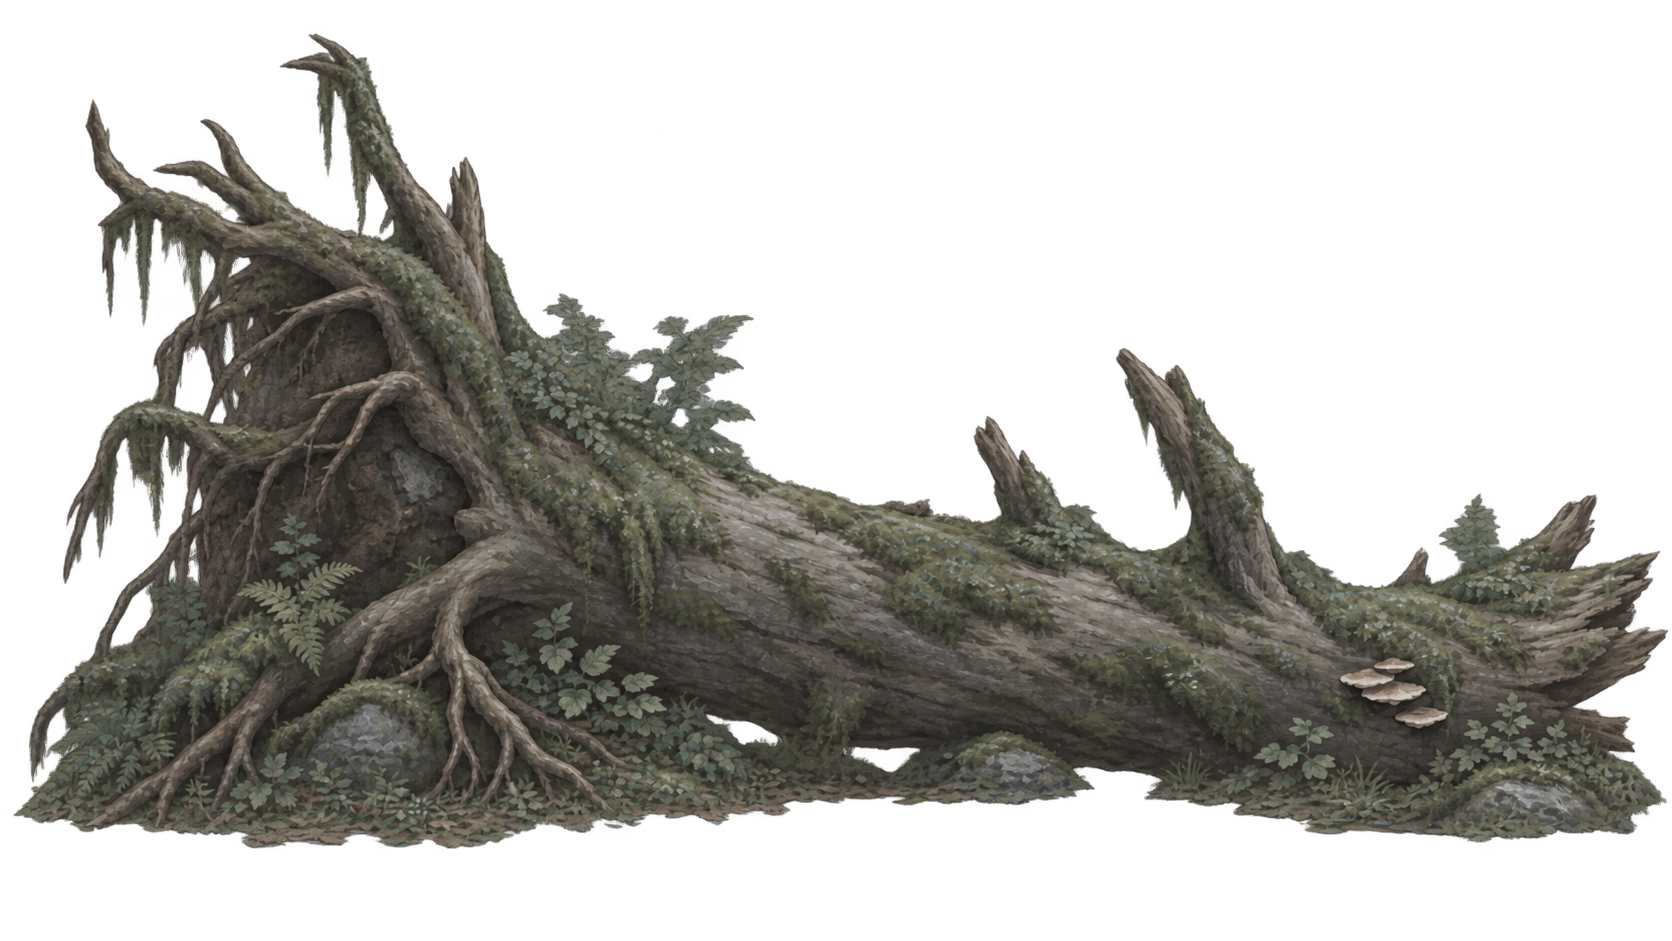
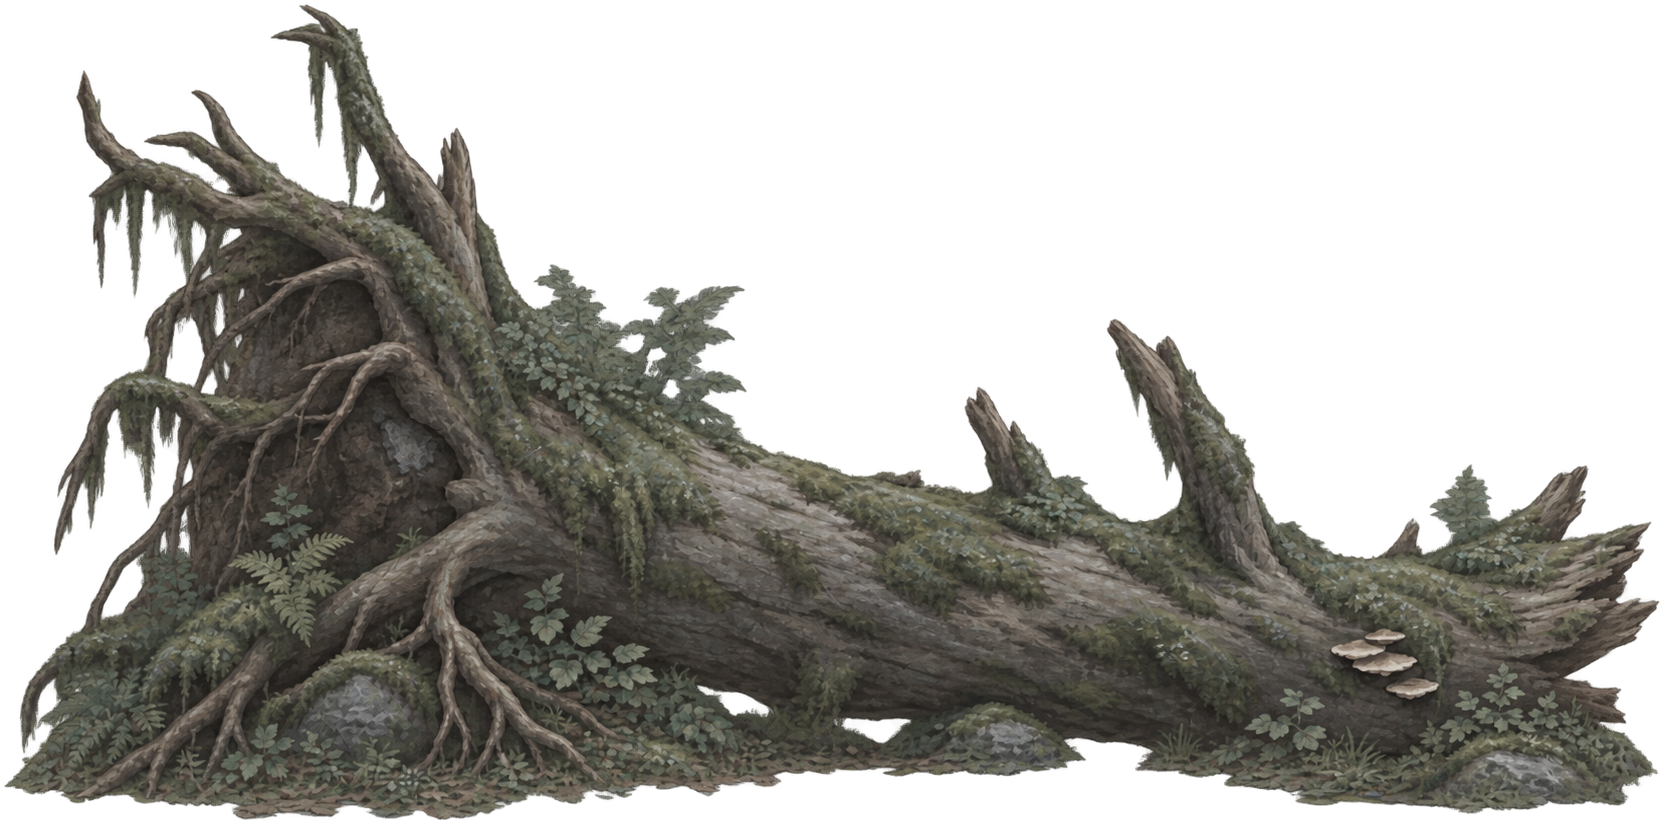
Add files via upload

diff --git a/sidescroll.js b/sidescroll.js
@@ -1,7 +1,7 @@
 (() => {
   'use strict';
 
-  // SideScroll v0.2.55: compact right-anchored drive control and lighter translucent gameplay control surfaces.
+  // SideScroll v0.2.56: crop the fallen-tree texture to its real painted bounds so it regains the authored size and sits on the ground; preserve authored puzzle aspect ratios.
 
   const queryParams = new URLSearchParams(window.location.search);
   const PLAYER_MODE = queryParams.get('mode') === 'player';
@@ -542,7 +542,7 @@
   const textures = {};
   const assetAspect = {};
 
-  function createImageTexture(url, label = 'image', fallbackUrl = null) {
+  function createImageTexture(url, label = 'image', fallbackUrl = null, aspectOverride = null) {
     const tex = gl.createTexture();
     gl.bindTexture(gl.TEXTURE_2D, tex);
     gl.texImage2D(
@@ -558,7 +558,7 @@
     const loadIntoTexture = src => {
       const image = new Image();
       image.onload = () => {
-        assetAspect[label] = image.naturalWidth / image.naturalHeight;
+        assetAspect[label] = Number.isFinite(aspectOverride) ? aspectOverride : (image.naturalWidth / image.naturalHeight);
         gl.bindTexture(gl.TEXTURE_2D, tex);
         gl.pixelStorei(gl.UNPACK_PREMULTIPLY_ALPHA_WEBGL, false);
         gl.pixelStorei(gl.UNPACK_FLIP_Y_WEBGL, true);
@@ -723,7 +723,7 @@
     return tex;
   }
 
-  textures.pathDirt = createRepeatingImageTexture('terrain-dirt.png?v=0.2.55', 'terrain dirt texture', {
+  textures.pathDirt = createRepeatingImageTexture('terrain-dirt.png?v=0.2.56', 'terrain dirt texture', {
     placeholderDraw: drawFallbackTerrainTexture,
     potSize: 1024
   });
@@ -731,8 +731,8 @@
   // v1.8.81: forest dressing now comes from one authored atlas.
   // This removes the old per-file fallback path which could substitute the
   // full woodland source sheet when an individual PNG failed to load.
-  textures.dressingAtlas = createImageTexture('sidescroll-dressing-atlas.png?v=0.2.55', 'SideScroll dressing atlas');
-  textures.treeAtlas = createImageTexture('sidescroll-tree-atlas.png?v=0.2.55', 'SideScroll tree atlas');
+  textures.dressingAtlas = createImageTexture('sidescroll-dressing-atlas.png?v=0.2.56', 'SideScroll dressing atlas');
+  textures.treeAtlas = createImageTexture('sidescroll-tree-atlas.png?v=0.2.56', 'SideScroll tree atlas');
   const assetUv = {
     tree06: { scale: [0.143066406, 0.497070312], offset: [0.699707031, 0.495117188] },
     tree02: { scale: [0.186523438, 0.483398438], offset: [0.131347656, 0.508789062] },
@@ -930,7 +930,7 @@
       for (const asset of pack.assets || []) {
         if (!textures[asset.name]) {
           if (asset.url) {
-            textures[asset.name] = createImageTexture(asset.url, asset.name);
+            textures[asset.name] = createImageTexture(asset.url, asset.name, null, asset.aspect || null);
             if (asset.aspect) assetAspect[asset.name] = asset.aspect;
           } else if (pack.image && asset.slice) {
             textures[asset.name] = createImageSliceTexture(pack.image, asset.slice, asset.name);
@@ -3727,7 +3727,7 @@
     return {
       format:'SideScrollPuzzle',
       formatVersion:1,
-      appVersion:'0.2.55',
+      appVersion:'0.2.56',
       exportedAt:new Date().toISOString(),
       marker:{ id:marker.id, group:marker.group, x:marker.x, local:markerIsUserCreated(marker) },
       definition:deepCopy(def),
@@ -3746,7 +3746,7 @@
       const def = groupDefinition(groupId);
       if (!groupId || !def) return;
       payload = {
-        format:'SideScrollPuzzleTemplate', formatVersion:1, appVersion:'0.2.55', exportedAt:new Date().toISOString(),
+        format:'SideScrollPuzzleTemplate', formatVersion:1, appVersion:'0.2.56', exportedAt:new Date().toISOString(),
         group:groupId, definition:deepCopy(def), savedStart:deepCopy(templateStartForGroup(groupId)),
         source:groupIsUserCreated(groupId) ? 'local-library' : 'library'
       };
@@ -3836,7 +3836,7 @@
     return {
       format:'SideScrollGameDesign',
       formatVersion:1,
-      appVersion:'0.2.55',
+      appVersion:'0.2.56',
       exportedAt:new Date().toISOString(),
       purpose:'Complete authoring handoff: scene placement, puzzle placement/setup, reusable asset settings, collectables and camera tuning.',
       world:{

diff --git a/play.html b/play.html
@@ -9,7 +9,7 @@
   <meta name="theme-color" content="#081015">
   <link rel="manifest" href="manifest.json">
   <link rel="apple-touch-icon" href="icon-192.png">
-  <link rel="stylesheet" href="style.css?v=0.2.55">
+  <link rel="stylesheet" href="style.css?v=0.2.56">
   <title>SideScroll</title>
 </head>
 <body class="modular-game ss-standalone-game" data-game-id="game-16">
@@ -279,11 +279,11 @@
     </section>
   </main>
 
-  <script src="site-config.js?v=0.2.55"></script>
-  <script src="core.js?v=0.2.55"></script>
-  <script src="walk-rig.js?v=0.2.55"></script>
-  <script src="puzzle-groups.js?v=0.2.55"></script>
-  <script src="baked-game-design.js?v=0.2.55"></script>
-  <script src="sidescroll.js?v=0.2.55"></script>
+  <script src="site-config.js?v=0.2.56"></script>
+  <script src="core.js?v=0.2.56"></script>
+  <script src="walk-rig.js?v=0.2.56"></script>
+  <script src="puzzle-groups.js?v=0.2.56"></script>
+  <script src="baked-game-design.js?v=0.2.56"></script>
+  <script src="sidescroll.js?v=0.2.56"></script>
 </body>
 </html>

diff --git a/walk-lab.html b/walk-lab.html
@@ -9,7 +9,7 @@
   <meta name="theme-color" content="#e7dbd2">
   <link rel="manifest" href="manifest.json">
   <link rel="apple-touch-icon" href="icon-192.png">
-  <link rel="stylesheet" href="style.css?v=0.2.55">
+  <link rel="stylesheet" href="style.css?v=0.2.56">
   <title>Walk Lab · SideScroll</title>
 </head>
 <body class="modular-game ss-standalone-game" data-game-id="game-17">
@@ -78,9 +78,9 @@
     </section>
   </main>
 
-  <script src="site-config.js?v=0.2.55"></script>
-  <script src="core.js?v=0.2.55"></script>
-  <script src="walk-rig.js?v=0.2.55"></script>
-  <script src="walk-lab.js?v=0.2.55"></script>
+  <script src="site-config.js?v=0.2.56"></script>
+  <script src="core.js?v=0.2.56"></script>
+  <script src="walk-rig.js?v=0.2.56"></script>
+  <script src="walk-lab.js?v=0.2.56"></script>
 </body>
 </html>

diff --git a/puzzle-groups.js b/puzzle-groups.js
@@ -7,7 +7,7 @@ window.SideScrollPuzzleConfig = {
         { name: "puzzle-log-b", url: "puzzle-log-b.png?v=0.2.8", aspect: 1.5423 },
         { name: "puzzle-log-c", url: "puzzle-log-c.png?v=0.2.8", aspect: 2.1916 },
         { name: "puzzle-log-d", url: "puzzle-log-d.png?v=0.2.8", aspect: 2.3850 },
-        { name: "fallen-tree", url: "fallen-tree.png?v=0.2.55", aspect: 2.3644 },
+        { name: "fallen-tree", url: "fallen-tree.png?v=0.2.56", aspect: 2.3644 },
         { name: "tree-stump", url: "tree-stump.png?v=0.2.8", aspect: 2.4223 },
         { name: "broken-branch", url: "broken-branch.png?v=0.2.8", aspect: 2.7182 },
         { name: "stone-wall", url: "stone-wall.png?v=0.2.25", aspect: 3.1356 },

diff --git a/index.html b/index.html
@@ -9,7 +9,7 @@
   <meta name="theme-color" content="#172026">
   <link rel="manifest" href="manifest.json">
   <link rel="apple-touch-icon" href="icon-192.png">
-  <link rel="stylesheet" href="style.css?v=0.2.55">
+  <link rel="stylesheet" href="style.css?v=0.2.56">
   <title>SideScroll</title>
 </head>
 <body class="modular-home ss-home">
@@ -52,8 +52,8 @@
     </section>
   </div>
 
-  <script src="site-config.js?v=0.2.55"></script>
-  <script src="core.js?v=0.2.55"></script>
-  <script src="home.js?v=0.2.55"></script>
+  <script src="site-config.js?v=0.2.56"></script>
+  <script src="core.js?v=0.2.56"></script>
+  <script src="home.js?v=0.2.56"></script>
 </body>
 </html>

diff --git a/sw.js b/sw.js
@@ -1,4 +1,4 @@
-const CACHE = "sidescroll-v0.2.55";
+const CACHE = "sidescroll-v0.2.56";
 const APP_SHELL = [
   "./",
   "./index.html",

diff --git a/README.md b/README.md
@@ -1,5 +1,7 @@
-# SideScroll v0.2.55
+# SideScroll v0.2.56
 
-- Halved the Run/Walk drive control width while keeping its right edge anchored in the same place.
-- Reduced the opacity of the cream control surfaces for the drive, Jump and Action controls so they obscure less of the scene.
-- No gameplay, puzzle, asset or camera changes.
+- Cropped the new fallen-tree texture to its actual visible alpha bounds, removing the ~10% empty area beneath/around the painted asset that made it look raised and undersized.
+- Kept the authored fallen-tree world transform and collision unchanged.
+- Kept the synthetic fallen-tree shadow disabled.
+- Puzzle image loading now preserves configured authored aspect ratios instead of letting the asynchronous source-image ratio overwrite them.
+- Includes the v0.2.55 smaller/lighter movement controls.
